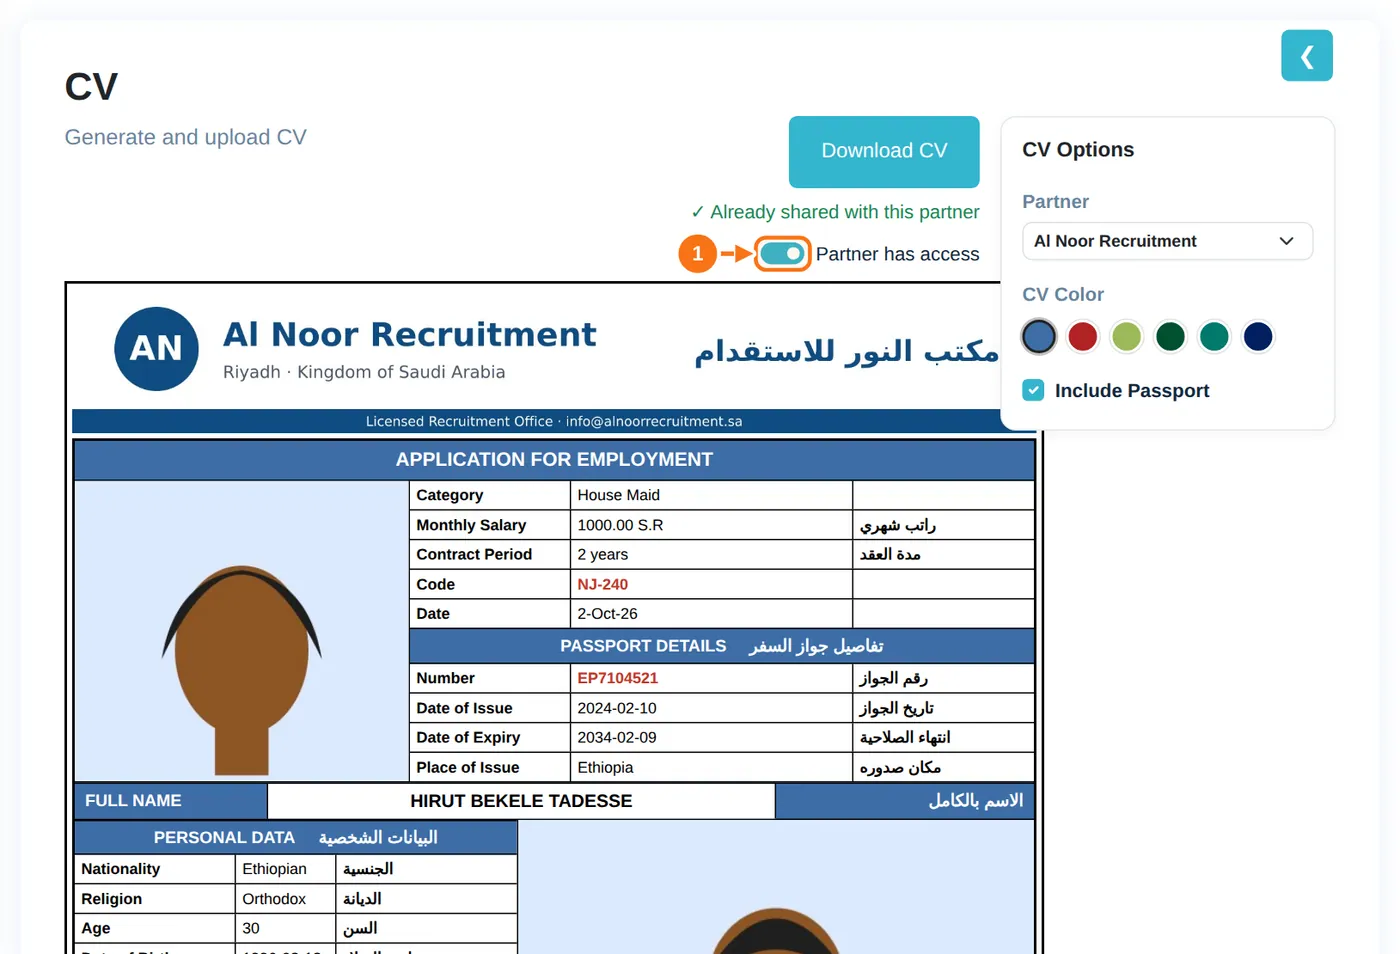
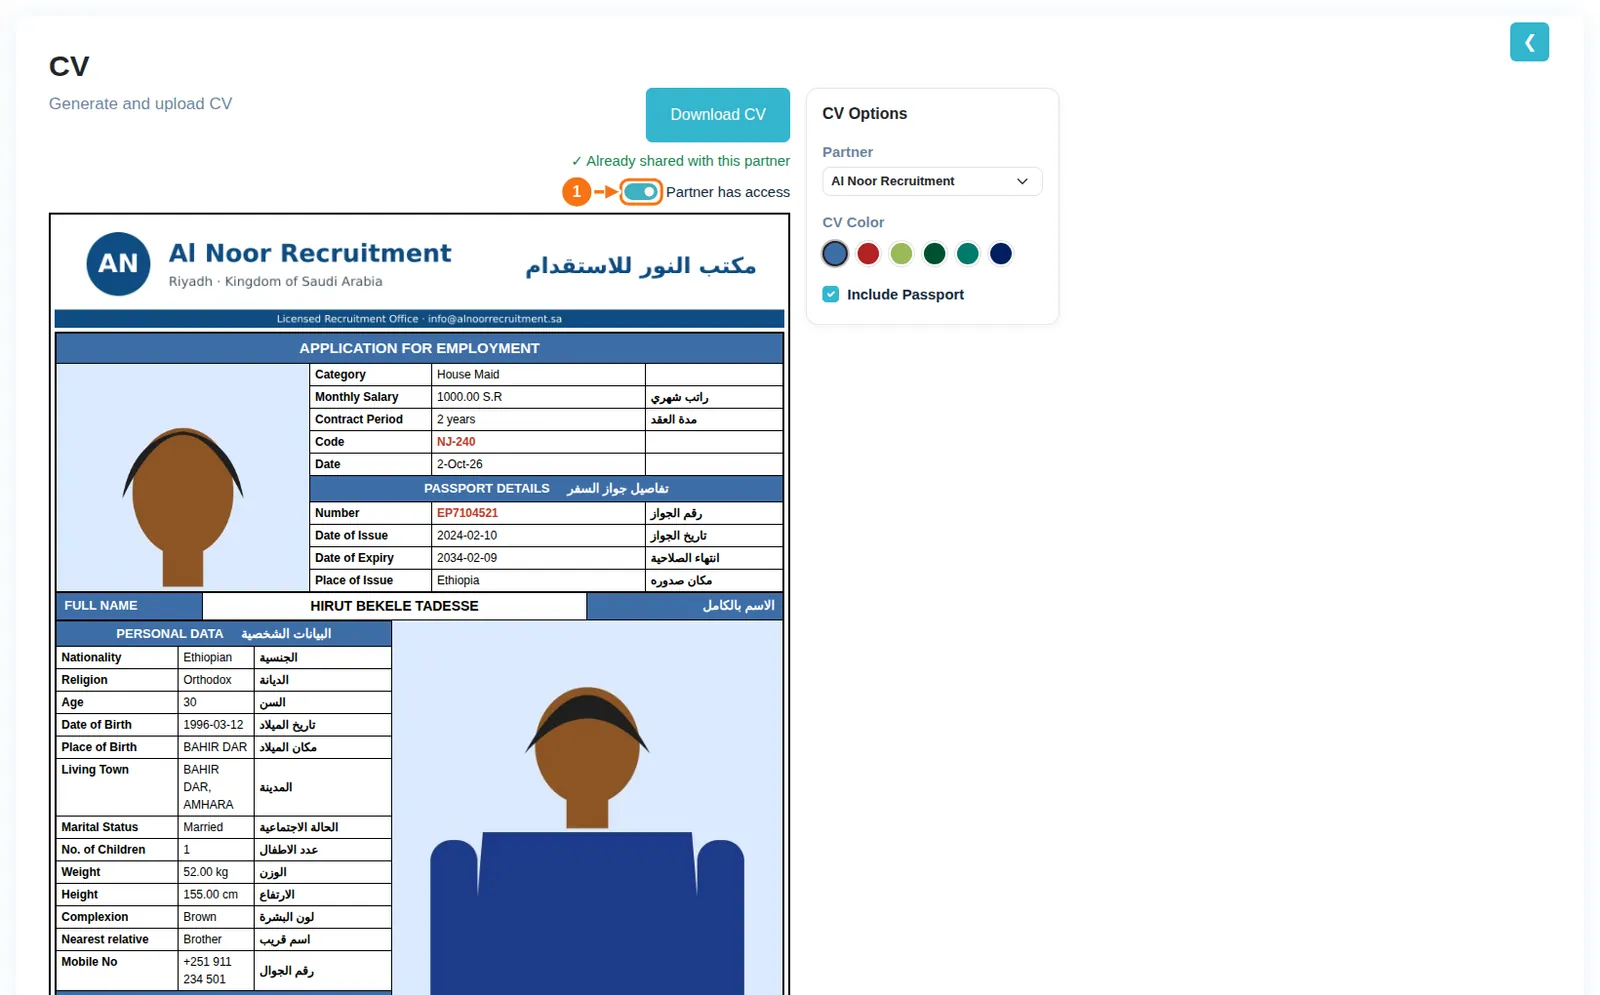
User Manual: retake CV screenshots at full HD, 100% zoom
The CV page's fixed-width A4 preview and the CV Options panel overlapped
in the 1366px captures. Retaken at 1920x1080 (100% zoom), where they sit
side by side, for the admin CV, shared-CV and partner CV screenshots.
Markers on the CV buttons moved off the CV header.

Claude-Session: https://claude.ai/code/session_01CZLmBCXG7oUZ4odKatLSLR

diff --git a/src/domains/admin/components/UserManual/manualShots.js b/src/domains/admin/components/UserManual/manualShots.js
@@ -78,12 +78,12 @@ const MANUAL_SHOTS = {
     "h": 1125
   },
   "employee-cv": {
-    "w": 1400,
-    "h": 954
+    "w": 1600,
+    "h": 995
   },
   "employee-cv-shared": {
-    "w": 1400,
-    "h": 954
+    "w": 1600,
+    "h": 995
   },
   "employee-documents": {
     "w": 1226,
@@ -214,8 +214,8 @@ const MANUAL_SHOTS = {
     "h": 1061
   },
   "partner-cv": {
-    "w": 1400,
-    "h": 954
+    "w": 1600,
+    "h": 995
   },
   "partner-employees": {
     "w": 1400,
